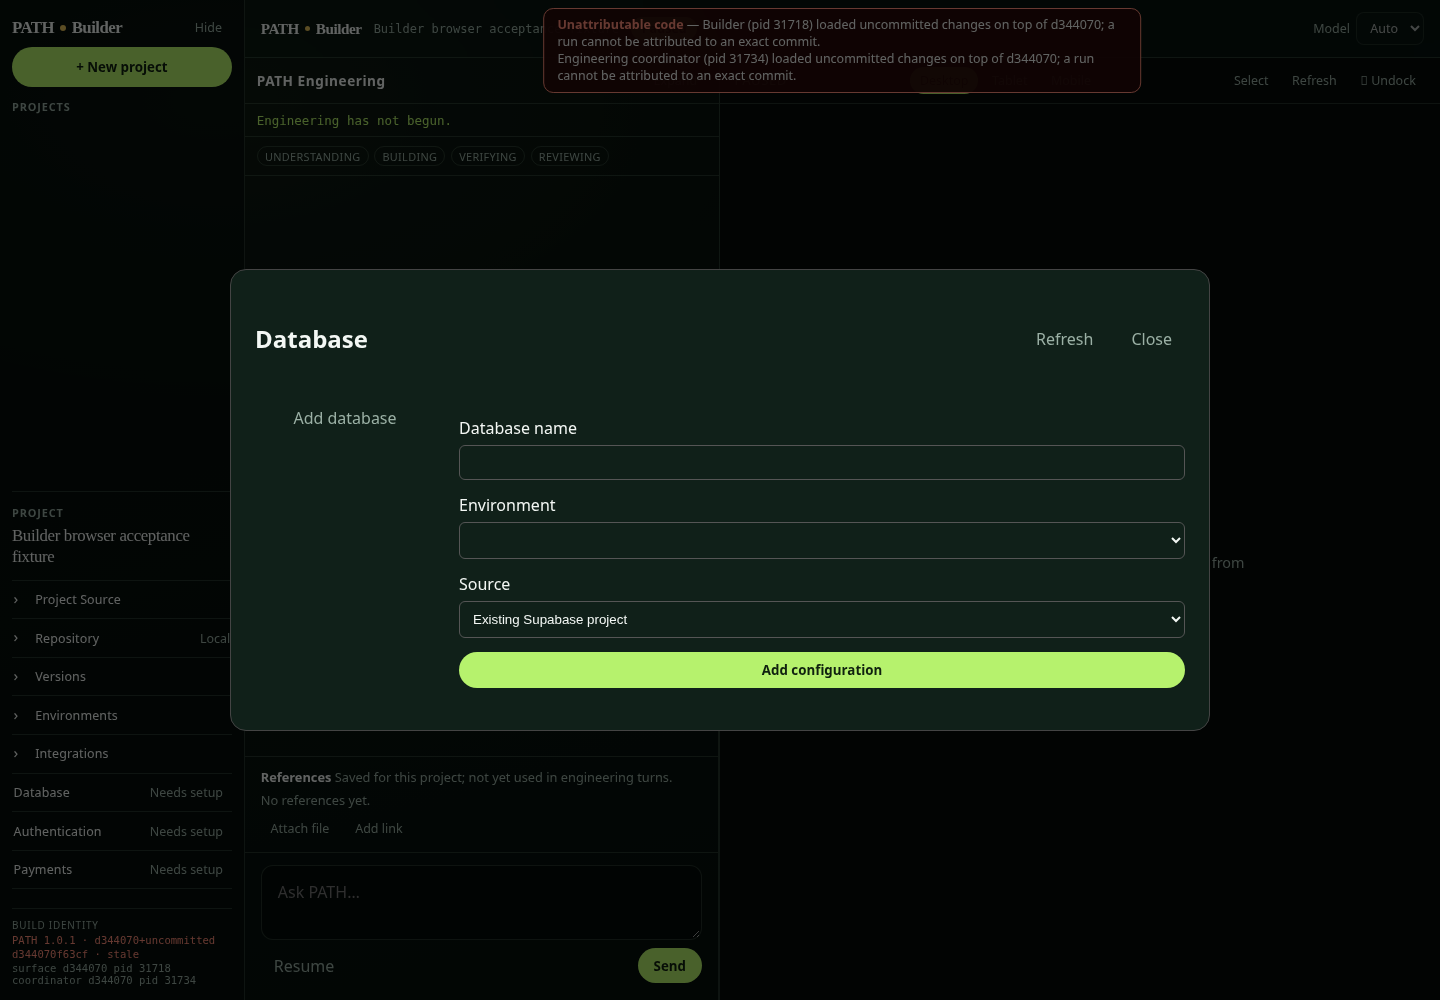
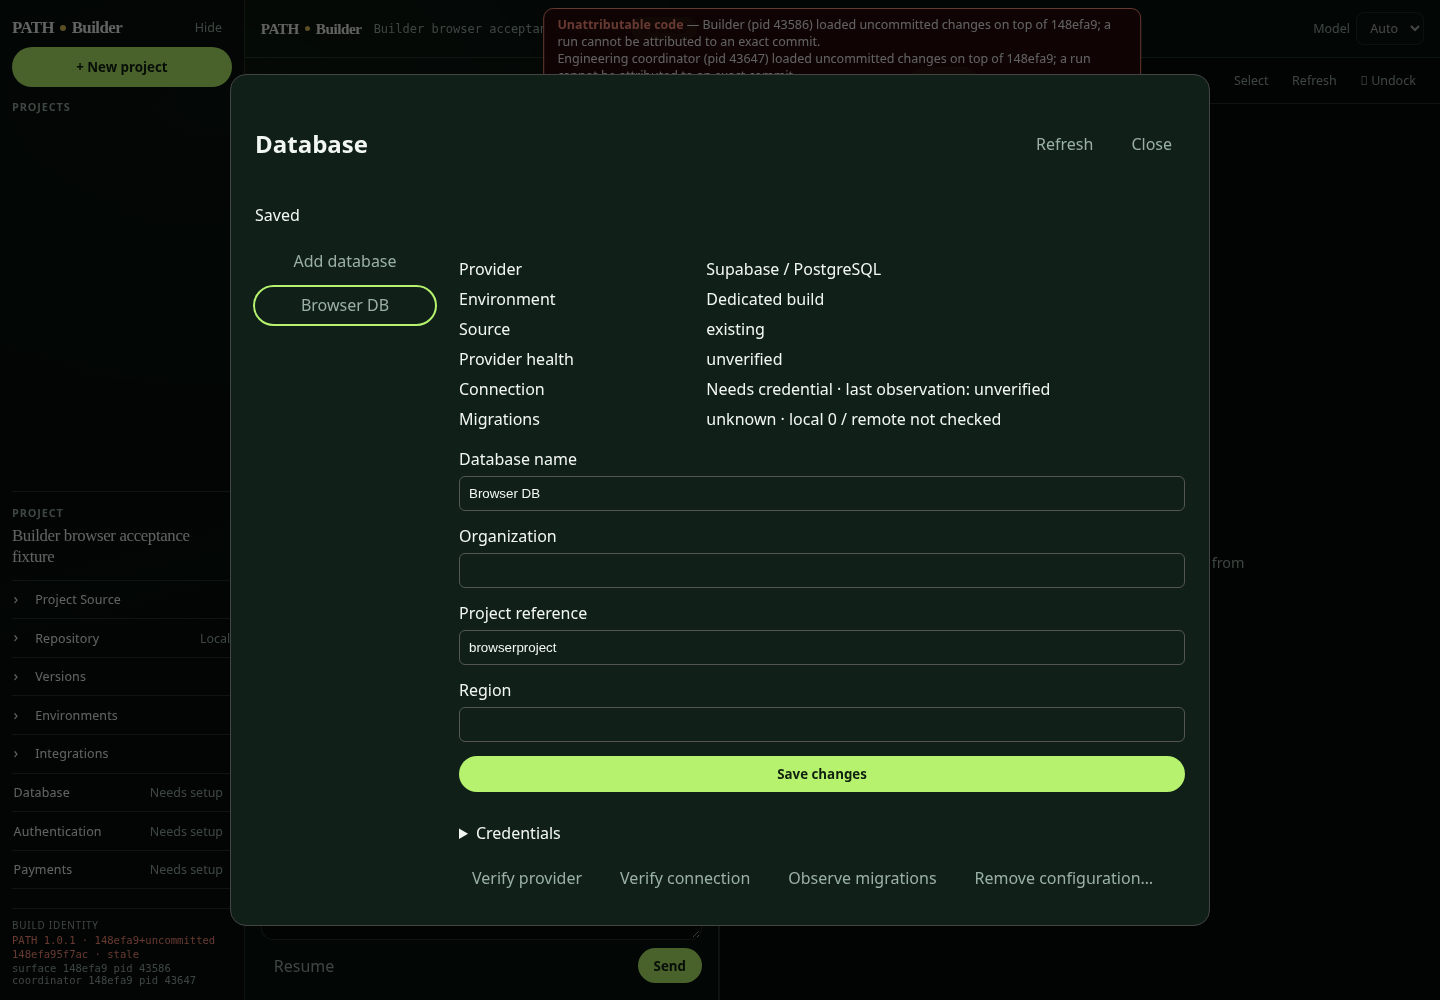
fix(builder): validate creator save flows and dependency readiness

diff --git a/scripts/pathcode-cli/build/surface/public/app.js b/scripts/pathcode-cli/build/surface/public/app.js
@@ -2672,7 +2672,7 @@ function initializeProductOperations() {
     if (plane === 'databases') facts = `<dl><dt>Provider</dt><dd>Supabase / PostgreSQL</dd><dt>Environment</dt><dd>${safe(i.environmentName)}</dd><dt>Source</dt><dd>${safe(label(i.source))}</dd><dt>Provider health</dt><dd>${safe(label(i.providerObservation.state))}</dd><dt>Connection</dt><dd>${i.readiness?.credentialActionRequired ? 'Needs credential · last observation: ' : ''}${safe(label(i.connectionObservation.state))} ${safe(i.connectionObservation.serverVersion)}</dd><dt>Migrations</dt><dd>${safe(label(i.migrationObservation.state))} · local ${safe(i.migrationObservation.localCount)} / remote ${safe(i.migrationObservation.remoteCount ?? 'not checked')}</dd></dl>`;
     else if (plane === 'auth') facts = `<p>Provider configuration: ${safe(label(i.observation.state))}</p><p>Client key: ${safe(i.config.publishableKeyVariableName)}</p><p>Project: ${safe(i.readiness?.projectUrl)}</p><p>${safe((i.readiness?.problems || []).map(label).join(' · '))}</p>`;
     else if (plane === 'payments') facts = `<dl><dt>Stripe verification identity</dt><dd>${safe(label(i.readiness?.verificationIdentity))}</dd><dt>Verified mode</dt><dd>${safe(label(i.readiness?.verifiedMode))}</dd><dt>Production runtime secret</dt><dd>${safe(label(i.readiness?.runtimeSecret))}</dd><dt>Webhook runtime secret</dt><dd>${safe(label(i.readiness?.webhookSecret))}</dd><dt>Expected webhook URL</dt><dd>${safe(i.readiness?.webhookUrl || 'Production callback/webhook base missing')}</dd></dl><p class="hint">Configure this endpoint and the listed events in Stripe. Local verification and runtime-secret presence do not prove that the keys are identical. Browser success redirects are not payment truth.</p><p>${safe(i.checkout.requiredWebhookEvents.join(', '))}</p>`;
-    else facts = `<p>Source: ${safe(state.authoritativeSha || supporting.sourceSha || 'Canonical Git revision')}</p><p>Build environment: ${safe(label(i.readiness?.state))} ${(i.readiness?.problems || []).map(p=>safe(label(p))).join(' · ')}</p><p>Auth callback: ${safe(i.readiness?.callbackUrl || 'Not configured')}</p><p>iOS: ${i.platforms.includes('ios') ? 'Local Xcode / signing acceptance required' : 'Not configured'}</p><p>Android: ${i.platforms.includes('android') ? 'Local Android SDK / signing acceptance required' : 'Not configured'}</p><p class="hint">Hosted Checkout stays web-based. Return links require product acceptance.</p>`;
+    else facts = `<p>Source: ${safe(state.authoritativeSha || supporting.sourceSha || 'Not configured')}</p><p>Build environment: ${safe(label(i.readiness?.buildEnvironmentState))}</p><p>Web artifact: ${safe(label(i.readiness?.webArtifactState))}</p><p>${(i.readiness?.problems || []).map(p=>safe(label(p))).join(' · ')}</p><p>Auth callback: ${safe(i.readiness?.callbackUrl || 'Not configured')}</p><p>iOS: ${i.platforms.includes('ios') ? 'Local Xcode / signing acceptance required' : 'Not configured'}</p><p>Android: ${i.platforms.includes('android') ? 'Local Android SDK / signing acceptance required' : 'Not configured'}</p><p class="hint">Hosted Checkout stays web-based. Return links require product acceptance.</p>`;
     return `<section class="operation-summary">${facts}${state.pendingOperation ? `<p>Operation: ${safe(label(state.pendingOperation.state))} ${safe(state.pendingOperation.providerProjectName || '')}</p>` : ''}</section>`;
   }
   function form(i) {
@@ -2695,11 +2695,12 @@ function initializeProductOperations() {
   function render() {
     const i = state.items.find(i=>itemId(i)===selected);
     const actions = !i ? '' : plane === 'databases' ? `<button class="ghost" data-op="verify-provider">Verify provider</button><button class="ghost" data-op="verify-connection">Verify connection</button><button class="ghost" data-op="migrations-observe">Observe migrations</button>${i.source === 'path_provisioned' ? '<button class="ghost" data-op="regions">Discover regions</button><button class="ghost" data-op="provision-prepare">Prepare provider project</button><button class="ghost" data-op="provision-execute">Create provider project…</button><button class="ghost" data-op="provision-observe">Observe provisioning</button>' : ''}` : plane === 'auth' ? '<button class="ghost" data-op="observe">Observe provider</button><button class="ghost" data-op="apply-prepare">Prepare apply</button><button class="ghost" data-op="apply-execute">Execute apply…</button><button class="ghost" data-op="apply-observe">Reconcile / cancel preparation</button>' : plane === 'native' ? '<button class="ghost" data-op="prepare">Prepare package</button><button class="ghost" data-op="execute">Package…</button><button class="ghost" data-op="observe">Observe / recover</button>' : '';
-    content.innerHTML = `<div class="operation-layout"><nav aria-label="Configurations"><button type="button" class="ghost" data-select="">Add ${names[plane].toLowerCase()}</button>${state.items.map(x=>`<button type="button" class="ghost" data-select="${safe(itemId(x))}" aria-current="${itemId(x)===selected}">${safe(x.label || x.appName)}</button>`).join('')}</nav><section>${detail(i)}<form id="productOperationForm" class="operation-form">${form(i)}<button class="cta compact" type="submit">${i ? 'Save changes' : 'Add configuration'}</button></form>${plane === 'databases' && i ? `<details><summary>Credentials</summary>${secretSelect('managementVariable','Management-token variable',i.environmentId,i.credentials.management.variableName)}<button class="ghost" data-bind="bind_management_credential">Bind management variable</button>${secretSelect('databaseUrlVariable','Database URL variable',i.environmentId,i.credentials.databaseUrl.variableName)}<button class="ghost" data-bind="bind_database_url">Bind database URL variable</button>${secretSelect('provisionVariable','Provision-password variable',i.environmentId,null)}</details>` : ''}<div class="operation-actions">${actions}${i ? '<button data-delete="true" class="ghost">Remove configuration…</button>' : ''}</div>${plane === 'native' ? `<details><summary>Generated artifacts</summary>${(state.artifacts || []).filter(a=>a.nativeId===selected).map(a=>`<p>${safe(a.artifactId)} · ${safe(a.state)} · ${safe(a.sourceSha.slice(0,12))} · ${safe(a.bytes)} bytes</p>`).join('') || '<p>No packages yet.</p>'}<p class="hint">Artifacts are retained under native-snapshots / build ID / artifact ID / .path-native-package in the PATH runtime. Open the ios project in Xcode or the android directory in Android Studio after review. Signing and store submission remain local acceptance gates.</p></details>` : ''}</section></div>`;
+    content.innerHTML = `<div class="operation-layout"><nav aria-label="Configurations"><button type="button" class="ghost" data-select="">Add ${names[plane].toLowerCase()}</button>${state.items.map(x=>`<button type="button" class="ghost" data-select="${safe(itemId(x))}" aria-current="${itemId(x)===selected}">${safe(x.label || x.appName)}</button>`).join('')}</nav><section>${detail(i)}<form id="productOperationForm" class="operation-form">${form(i)}<button class="cta compact" type="submit">${i ? 'Save changes' : 'Add configuration'}</button></form>${plane === 'databases' && i ? `<details><summary>Credentials</summary>${secretSelect('managementVariable','Management-token variable',i.environmentId,i.credentials.management.variableName)}<button class="ghost" data-bind="bind_management_credential">Bind management variable</button><button class="ghost" data-unbind="unbind_management_credential">Remove management binding</button>${secretSelect('databaseUrlVariable','Database URL variable',i.environmentId,i.credentials.databaseUrl.variableName)}<button class="ghost" data-bind="bind_database_url">Bind database URL variable</button><button class="ghost" data-unbind="unbind_database_url">Remove database URL binding</button>${secretSelect('provisionVariable','Provision-password variable',i.environmentId,null)}</details>` : ''}<div class="operation-actions">${actions}${i ? '<button data-delete="true" class="ghost">Remove configuration…</button>' : ''}</div>${plane === 'native' ? `<details><summary>Generated artifacts</summary>${(state.artifacts || []).filter(a=>a.nativeId===selected).map(a=>`<p>${safe(a.artifactId)} · ${safe(a.state)} · ${safe(a.sourceSha.slice(0,12))} · ${safe(a.bytes)} bytes</p>`).join('') || '<p>No packages yet.</p>'}<p class="hint">Artifacts are retained under native-snapshots / build ID / artifact ID / .path-native-package in the PATH runtime. Open the ios project in Xcode or the android directory in Android Studio after review. Signing and store submission remain local acceptance gates.</p></details>` : ''}</section></div>`;
     content.querySelectorAll('[data-select]').forEach(b=>b.onclick=()=>{ selected=b.dataset.select || null; render(); });
     content.querySelector('form').onsubmit=save;
     content.querySelectorAll('[data-op]').forEach(b=>b.onclick=()=>operate(b.dataset.op));
     content.querySelectorAll('[data-bind]').forEach(b=>b.onclick=()=>bind(b.dataset.bind));
+    content.querySelectorAll('[data-unbind]').forEach(b=>b.onclick=()=>mutation(b.dataset.unbind,{databaseId:selected}));
     content.querySelector('[data-delete]')?.addEventListener('click',remove);
     content.querySelector('[name="databaseId"]')?.addEventListener('change',e=>{
       if (plane !== 'auth') return;
@@ -2740,8 +2741,13 @@ function initializeProductOperations() {
     e.preventDefault(); const d=data(); const i=state.items.find(i=>itemId(i)===selected); let input;
     if (plane === 'databases') {
       if (!i) return mutation('create_database',{provider:'supabase',label:d.label,environmentId:d.environmentId,source:d.source});
-      const result=await mutation('rename_database',{databaseId:selected,label:d.label});
-      if(result) await mutation('set_provider_target',{databaseId:selected,organizationSlug:d.organizationSlug || null,projectRef:d.projectRef || null,region:d.region || null});
+      if (i.label !== d.label) {
+        const renamed=await mutation('rename_database',{databaseId:selected,label:d.label});
+        if (!renamed) return;
+      }
+      if (i.source === 'existing' && (i.providerTarget.organizationSlug !== (d.organizationSlug || null) || i.providerTarget.projectRef !== (d.projectRef || null) || i.providerTarget.region !== (d.region || null))) {
+        await mutation('set_provider_target',{databaseId:selected,organizationSlug:d.organizationSlug || null,projectRef:d.projectRef || null,region:d.region || null});
+      } else status.textContent='Saved';
       return;
     }
     if (plane === 'auth') {

diff --git a/tests/s5/build-product-operations.test.ts b/tests/s5/build-product-operations.test.ts
@@ -302,3 +302,20 @@ describe('Native artifact secret roles',()=>{
   const recordText=JSON.stringify(readBuildRecord(f.root,f.record.buildId));expect(recordText).not.toContain('PRIVATE_RUNTIME_SENTINEL');expect(recordText).not.toContain('PUBLIC_RUNTIME_SENTINEL');
  });
 });
+describe('Final readiness and Stripe transport regression',()=>{
+ it('reports missing canonical source before attempting native materialization',async()=>{
+  const f=await nativeFixture();const r:any=readBuildRecord(f.root,f.record.buildId);r.authoritativeSha=null;writeBuildRecord(f.root,r);
+  expect((await f.call('native.list')).profiles[0].readiness).toMatchObject({state:'action_required',buildEnvironmentState:'usable',webArtifactState:'build_verification_required',problems:expect.arrayContaining(['source_unresolved'])});
+  expect(await f.call('native.prepare',await f.parameters())).toMatchObject({ok:false,code:'NATIVE_SOURCE_UNRESOLVED'});
+ });
+ it('degrades a malformed referenced Auth authority in payment/native projections',async()=>{
+  const f=await paymentFixture();const p=await f.call('native.mutate',{action:'create_profile',expectedNativeRevision:0,input:{appId:'com.example.app',appName:'Example',platforms:['android'],buildEnvironmentId:f.environmentId,packagePolicy:{capacitorVersion:'8.5.3',webDir:'public',iosPackageManager:'SPM'},authId:null,authCallbackScheme:null}});expect(p.ok).toBe(true);
+  const r:any=readBuildRecord(f.root,f.record.buildId);r.payments.items[0].dependencies.authId='damaged-auth';r.native.profiles[0].authId='damaged-auth';r.auth={schema:'pathcode.p14.auth.v1',revision:1,items:[{authId:'damaged-auth'}],pendingOperation:null,operationHistory:[]};writeBuildRecord(f.root,r);
+  expect((await f.call('payments.list')).items[0].readiness.problems).toContain('dependency_missing');expect((await f.call('native.list')).profiles[0].readiness.problems).toContain('dependency_missing');
+ });
+ it.each(['test','live'])('makes one fixed read-only Stripe identity request for %s mode',async(mode)=>{
+  const {EventEmitter}=await import('node:events');const {createStripeIdentityAdapter}=await load('stripe-integration-adapter');let calls=0;
+  const adapter=createStripeIdentityAdapter({requestImpl:(options:any,callback:any)=>{calls++;expect(options).toMatchObject({hostname:'api.stripe.com',path:'/v1/account',method:'GET',rejectUnauthorized:true});const req:any=new EventEmitter();req.destroy=()=>{};req.end=()=>queueMicrotask(()=>{const res:any=new EventEmitter();res.statusCode=200;callback(res);res.emit('data',Buffer.from(JSON.stringify({object:'account',id:'acct_synthetic123',secret:'PROVIDER_SECRET_SENTINEL'})));res.emit('end');});return req;}});
+  const result=await adapter.verify({credentials:{secret_key:`rk_${mode}_synthetic123`}});expect(result).toEqual({ok:true,providerAccountRef:'acct_synthetic123',capabilities:['stripe.account.read',`stripe.mode.${mode}`]});expect(calls).toBe(1);expect(JSON.stringify(result)).not.toContain('PROVIDER_SECRET_SENTINEL');
+ });
+});
